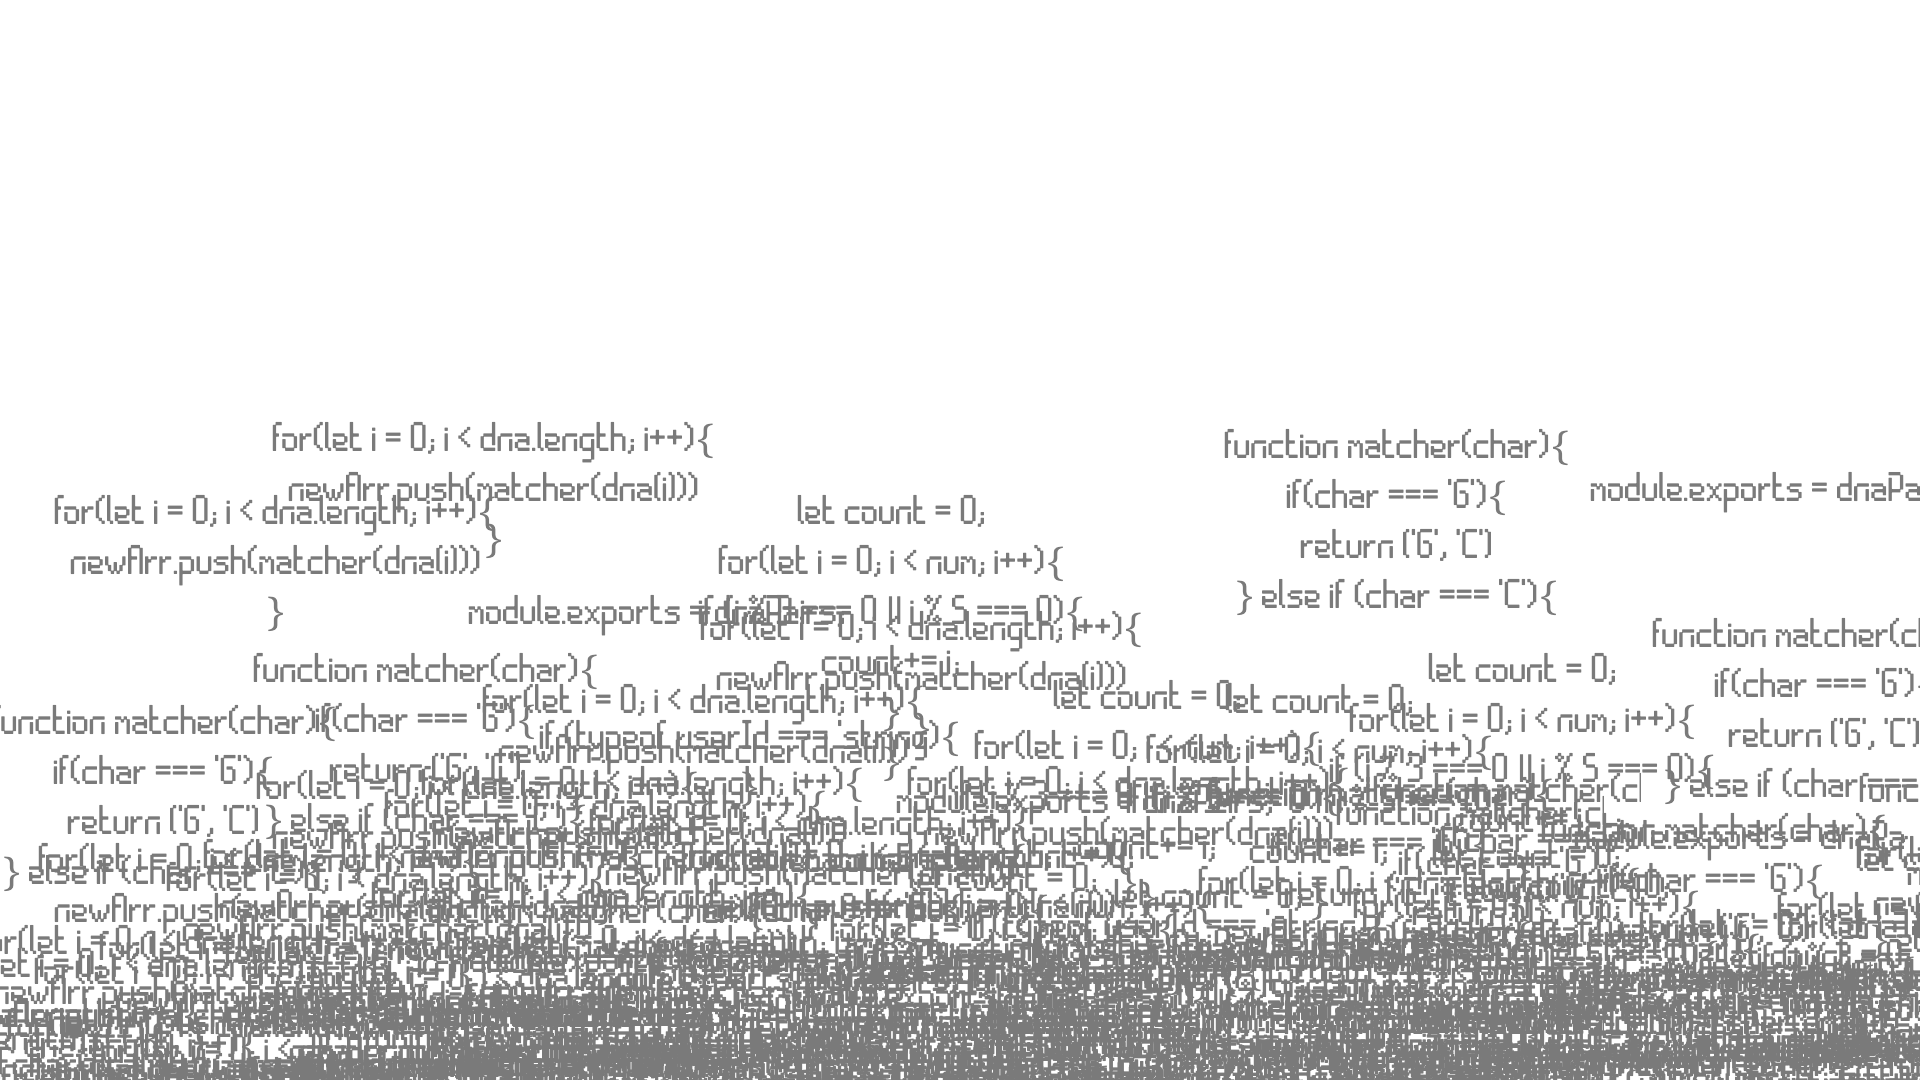
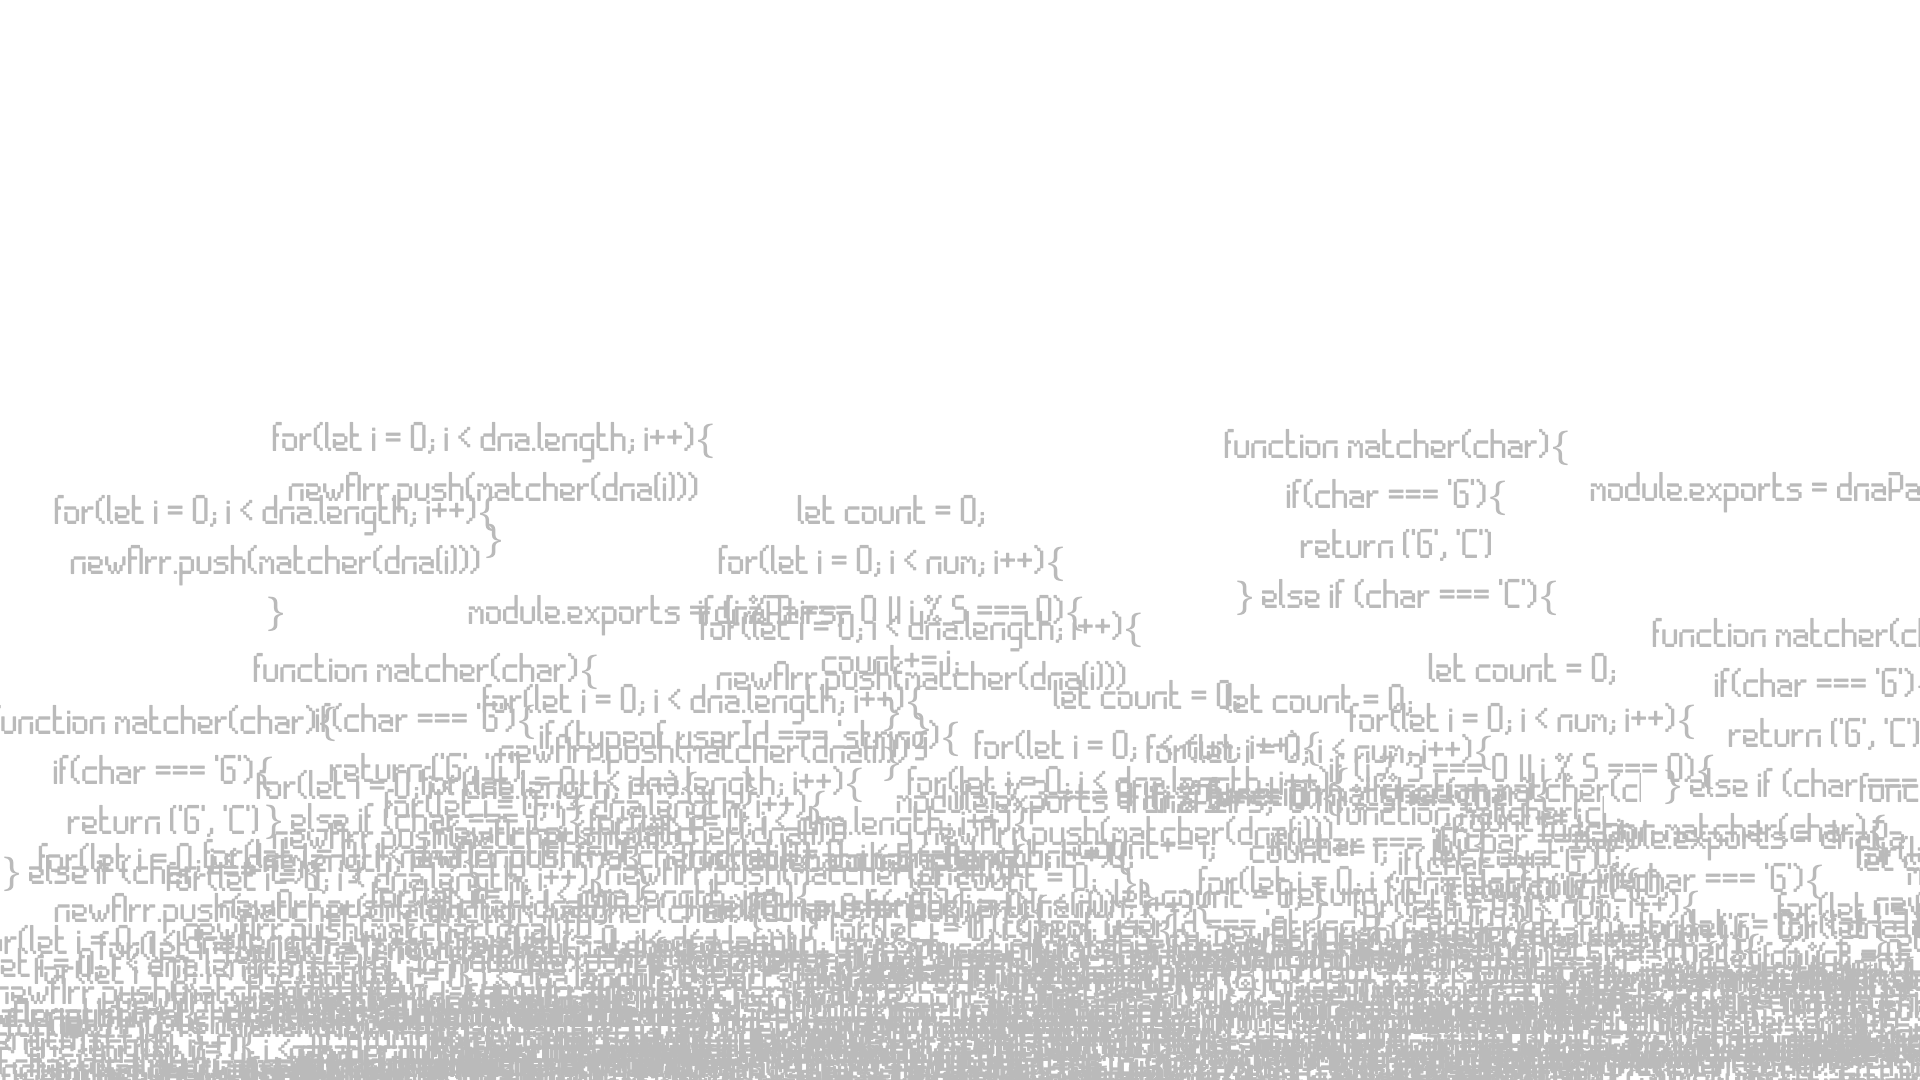
revise styling, reduce background opacity in improve readability, reduce text size and tweak shadow placement

diff --git a/src/index.css b/src/index.css
@@ -1,11 +1,10 @@
 body {
-  font-size: medium;
-  background-color: rgb(23, 33, 61);
+  font-size: large;
+  background-color: rgb(19, 33, 68);
   font-family: 'DIN Condensed','DIN Alternate','Silom','Segoe UI Black','Tahoma',sans-serif;
   -webkit-font-smoothing: antialiased;
   -moz-osx-font-smoothing: grayscale;
 }
-
 
 .Navbar {
   display: flex;
@@ -17,6 +16,9 @@ body {
   margin-right: 3rem;
   filter: drop-shadow(2px 2px 3px rgb(0,0,0))
 }
+.NavbarLinks {
+  text-shadow: 3px 3px rgb(0, 0, 0);
+}
 
 #Footer {
   justify-content: center;
@@ -26,9 +28,12 @@ body {
 
 h1, h2, h3 {
   color: white;
-  text-shadow: 2px 2px rgb(0, 0, 0);
   margin-left: 0.5rem;
   margin-right: 0.5rem;
+}
+
+h1, h2{
+  text-shadow: 3px 3px rgb(0, 0, 0);
 }
 
 h3 {
@@ -45,20 +50,22 @@ b {
 
 a {
   color:rgb(0, 170, 255);
+  text-shadow: none;
   position:relative;
 }
 
 p {
+  font-size: medium;
   text-align: justify;
+  text-shadow: 3px 3px rgb(0, 0, 0);
   color: white;
-  text-shadow: 2px 2px rgb(0, 0, 0);
   margin-left: 1rem;
   margin-right: 1rem;
 }
 
 #profilePic {
   border-radius: 1rem;
-  margin-right: 2.5rem;
+  margin-right: 1rem;
   margin-bottom: 0.5rem;
   margin-left: 1rem;
   float: left;
@@ -86,11 +93,10 @@ code {
   font-size: small;
   border-radius: 0.5rem;
   background-color: rgba(116, 151, 255, 0.3);
-  filter: drop-shadow(2px 2px 3px rgb(0,0,0));
   line-height: 14px;
   margin: 0.3rem;
   padding:0.2rem;
-  max-width: auto;
+  max-width: 14rem;
   text-align: left;
   display: block;
 }
@@ -110,10 +116,6 @@ code {
   }
   #Footer {
     display:flex;
-  }
-  .footerCard{
-    font-size: large;
-    max-width: auto;
   }
   .sampleText {
     display: block;

diff --git a/src/components/Codewars.jsx b/src/components/Codewars.jsx
@@ -20,7 +20,7 @@ const Codewars = () => {
             <>
             <div className='footerCard'>
                 <h3><b>Check out my Codewars Stats:</b></h3>
-                <p id='codewarsText'>This uses an api call for up to date data.</p>
+                <h3>Data via API...</h3>
                 <h3>Username: <a href='https://www.codewars.com/users/OwenInTraining'>{data.username}</a> </h3>
                 <h3>Leaderboard Rank: <b>{data.leaderboardPosition}</b></h3>
                 <h3>Honor: <b>{data.honor}</b></h3>
@@ -28,6 +28,12 @@ const Codewars = () => {
                 <h3>Javascript: <b>{data.ranks.languages.javascript.name}</b> </h3>
                 <h3>Python: <b>{data.ranks.languages.python.name}</b> </h3>
             </div>
+            </>
+        )
+    } else {
+        return (
+            <>
+            <h1>Loading...</h1>
             </>
         )
     }

diff --git a/src/components/Github.jsx b/src/components/Github.jsx
@@ -21,12 +21,19 @@ const Github = () => {
             <>
             <div className='footerCard'>
                 <h3><b>Check out my latest Github activity:</b></h3>
+                <h3>Data via API...</h3>
                 <h3>Type: <b>{data.type}</b></h3>
                 <h3>Date: <b>{data.created_at.slice(0,10)}</b></h3>
                 <h3>Repo: <b>{data.repo.name}</b></h3>
                 <h3>Message: <b>{data.payload.commits[0].message}</b></h3>
                 <h3><a href={repo}>Visit this Repo</a></h3>
             </div>
+            </>
+        )
+    }  else {
+        return (
+            <>
+            <h1>Loading...</h1>
             </>
         )
     }

diff --git a/src/App.js b/src/App.js
@@ -15,7 +15,7 @@ function App() {
       backgroundImage: `url(${background})`,
       backgroundRepeat: 'no-repeat',
       backgroundPosition: 'bottom',
-      backgroundSize: 'cover',
+      backgroundSize:'auto',
     }}>
       <div>
           <Header/>
